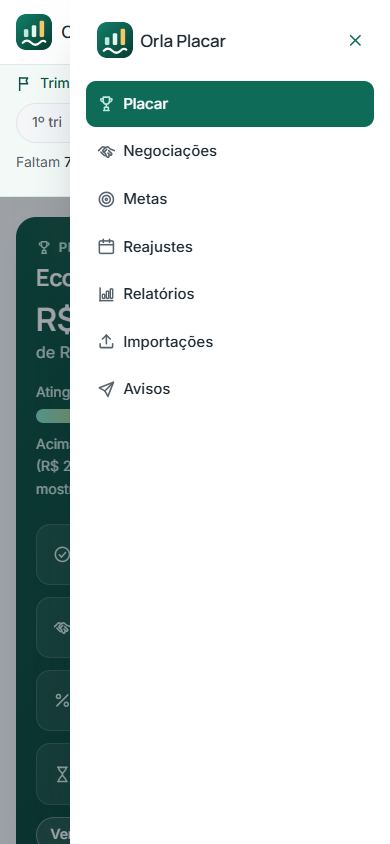
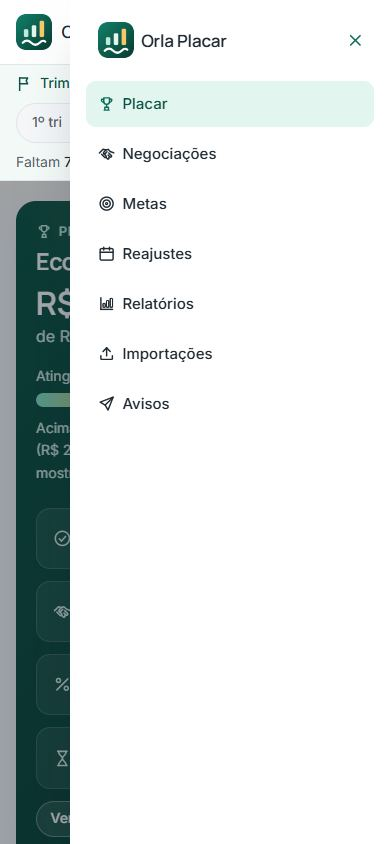
Refina o menu do Placar e cria o menu de conta no DS
- Nome, perfil, matrícula e "Sair" saem do topo e vão para um menu de
  conta (avatar e primeiro nome), nos três produtos. Abre e fecha pelo
  teclado, fecha com Esc e devolve o foco.
- Topo do Placar alinhado à mesma largura do conteúdo e da faixa do
  trimestre, sem quebras de linha. Item ativo com fundo suave no lugar da
  pílula verde sólida. Abaixo de 1180 px o menu vira gaveta.
- Nome da marca nunca quebra de linha.

diff --git a/controle-aditamento/css/app.css b/controle-aditamento/css/app.css
@@ -30,41 +30,45 @@
   position: sticky;
   top: 0;
   z-index: 40;
-  background: rgb(255 255 255 / .86);
+  background: rgb(255 255 255 / .9);
   border-bottom: 1px solid var(--border);
   -webkit-backdrop-filter: blur(14px);
   backdrop-filter: blur(14px);
 }
+/* Topo, faixa do trimestre e conteúdo alinhados na mesma largura. */
 .app-header__bar {
   display: flex;
   align-items: center;
-  gap: 1rem;
+  gap: clamp(1rem, 2vw, 2rem);
   max-width: var(--content-max);
   min-height: var(--header-h);
   margin-inline: auto;
   padding: .5rem clamp(1rem, 3vw, 2rem);
 }
-.app-header__end { display: flex; align-items: center; gap: .5rem; margin-left: auto; }
+.app-header__bar > .brand { flex: none; }
+.app-header__end { display: flex; align-items: center; gap: .35rem; margin-left: auto; flex: none; }
 .btn.app-header__menu { display: none; }
 
-.app-nav ul { display: flex; flex-wrap: nowrap; gap: .1rem; margin: 0; padding: 0; list-style: none; }
+.app-nav { min-width: 0; }
+.app-nav ul { display: flex; flex-wrap: nowrap; gap: .15rem; margin: 0; padding: 0; list-style: none; }
 .app-nav a {
   display: inline-flex;
   align-items: center;
   gap: .45rem;
   min-height: 40px;
-  padding: .4rem .7rem;
-  border-radius: 999px;
+  padding: .4rem .75rem;
+  border-radius: var(--radius-sm);
   white-space: nowrap;
-  color: var(--text);
+  color: var(--text-muted);
   font-size: var(--text-md);
   font-weight: 500;
   text-decoration: none;
+  transition: background-color .15s, color .15s;
 }
-.app-nav a .icon { color: var(--text-muted); }
-.app-nav a:hover { background: var(--surface-3); }
-.app-nav a[aria-current="page"] { background: var(--accent-700); color: #fff; }
-.app-nav a[aria-current="page"] .icon { color: var(--accent-200); }
+.app-nav a .icon { width: 1.15em; height: 1.15em; }
+.app-nav a:hover { background: var(--surface-3); color: var(--text); }
+.app-nav a[aria-current="page"] { background: var(--accent-100); color: var(--accent-800); }
+.app-nav a[aria-current="page"] .icon { color: var(--accent-700); }
 .app-nav__head { display: none; }
 
 /* Faixa da temporada: o trimestre em foco */
@@ -85,7 +89,7 @@
 .season__label { display: inline-flex; align-items: center; gap: .4rem; font-weight: 500; color: var(--accent-800); }
 .season .segmented label { min-height: 32px; padding: .2rem .75rem; }
 .season .select { width: auto; min-height: 36px; padding-block: .25rem; font-size: var(--text-sm); }
-.season__clock { margin-left: auto; color: var(--text-muted); }
+.season__clock { margin: 0 0 0 auto; color: var(--text-muted); }
 .season__clock strong { color: var(--text); font-weight: 500; }
 
 .content {
@@ -94,10 +98,8 @@
   padding: clamp(1.25rem, 3vw, 2rem) clamp(1rem, 3vw, 2rem) 3rem;
 }
 
-@media (max-width: 1500px) {
-  .app-header .user-box__name { display: none; }
-}
-@media (max-width: 1100px) {
+/* Abaixo de 1180 px os sete itens não cabem com folga: o menu vira gaveta. */
+@media (max-width: 1180px) {
   /* backdrop-filter criaria um bloco de contenção e prenderia a gaveta dentro do cabeçalho */
   .app-header { background: var(--surface); -webkit-backdrop-filter: none; backdrop-filter: none; }
   .app-header:has(.app-nav.is-open) { z-index: 70; }
@@ -117,8 +119,10 @@
   }
   .app-nav.is-open { transform: none; visibility: visible; transition: transform .25s var(--ease); }
   .app-nav__head { display: flex; align-items: center; justify-content: space-between; margin-bottom: 1rem; }
-  .app-nav ul { flex-direction: column; }
-  .app-nav a { width: 100%; min-height: 46px; border-radius: var(--radius-sm); }
+  .app-nav ul { flex-direction: column; gap: .25rem; }
+  .app-nav a { width: 100%; min-height: 46px; color: var(--text); }
+}
+@media (max-width: 720px) {
   .season__clock { margin-left: 0; width: 100%; }
 }
 @media (max-width: 560px) {

diff --git a/ds/ds.css b/ds/ds.css
@@ -210,7 +210,7 @@ a:hover { text-decoration-thickness: 2px; }
   text-decoration: none;
 }
 .brand__mark { width: 36px; height: 36px; border-radius: 10px; }
-.brand__text { display: grid; line-height: 1.15; }
+.brand__text { display: grid; line-height: 1.15; white-space: nowrap; }
 .brand__name { font-family: var(--font-display); font-weight: 600; font-size: 1.0625rem; letter-spacing: -.01em; }
 .brand__sub { font-size: .8125rem; color: var(--text-muted); }
 
@@ -1060,17 +1060,32 @@ th[aria-sort="ascending"] .sort-btn, th[aria-sort="descending"] .sort-btn { colo
 .app-link small { color: var(--text-muted); font-size: .8125rem; }
 .app-link[aria-current="page"] { background: var(--accent-50); box-shadow: inset 0 0 0 1px var(--accent-200); }
 
-/* Pessoa logada */
-.user-box { display: flex; align-items: center; gap: .65rem; }
-.user-box__name { display: grid; line-height: 1.2; font-size: var(--text-sm); }
-.user-box__name strong { font-weight: 500; }
-.user-box__name span { color: var(--text-muted); font-size: .8125rem; }
-@media (max-width: 1023.98px) { .user-box__name { display: none; } }
-@media (max-width: 560px) {
-  .user-box .avatar { display: none; }
-  .user-box__sair { width: 36px; padding: 0; }
-  .user-box__sair-txt { position: absolute; width: 1px; height: 1px; overflow: hidden; clip: rect(0 0 0 0); white-space: nowrap; }
+/* Conta da pessoa logada: avatar e primeiro nome; nome completo, perfil e "Sair" no menu */
+.account__btn {
+  display: inline-flex;
+  align-items: center;
+  gap: .5rem;
+  min-height: 44px;
+  padding: .25rem .6rem .25rem .3rem;
+  border: 1px solid transparent;
+  border-radius: 999px;
+  background: transparent;
+  color: var(--text);
+  font: inherit;
+  font-size: var(--text-md);
+  font-weight: 500;
+  cursor: pointer;
+  white-space: nowrap;
 }
+.account__btn:hover, .account__btn[aria-expanded="true"] { background: var(--surface-3); }
+.account__btn .icon { width: 1em; height: 1em; color: var(--text-muted); transition: transform .15s; }
+.account__btn[aria-expanded="true"] .icon { transform: rotate(180deg); }
+.account__panel { min-width: 280px; padding: 1rem; }
+.account__who { display: grid; grid-template-columns: auto minmax(0, 1fr); gap: .25rem .75rem; align-items: center; margin-bottom: .9rem; padding-bottom: .9rem; border-bottom: 1px solid var(--border); }
+.account__who .avatar { grid-row: span 3; width: 44px; height: 44px; font-size: .9375rem; }
+.account__who strong { font-weight: 600; line-height: 1.25; }
+.account__who span { font-size: .8125rem; color: var(--text-muted); line-height: 1.3; }
+@media (max-width: 640px) { .account__name { display: none; } .account__btn { padding-right: .4rem; } }
 
 /* ---------------------------------------------------------- Login escuro */
 .login {

diff --git a/ds/ds.js b/ds/ds.js
@@ -1188,12 +1188,24 @@
     return raiz;
   }
 
-  // Avatar, nome, perfil e botão de sair.
-  function userBox(u, classe) {
-    return h('div', { class: 'user-box ' + (classe || '') },
-      h('span', { class: 'avatar', 'aria-hidden': 'true', text: iniciais(u.nome) }),
-      h('span', { class: 'user-box__name' }, h('strong', { text: u.nome }), h('span', { text: perfilNoApp(u) })),
-      h('button', { type: 'button', class: 'btn btn--sm user-box__sair', onClick: sair }, icon('logout'), h('span', { class: 'user-box__sair-txt', text: 'Sair' })));
+  // Conta: botão com avatar e primeiro nome que abre nome completo, perfil e "Sair".
+  function userBox(u) {
+    const painelId = uid('conta');
+    const primeiro = String(u.nome).split(' ')[0];
+    const botao = h('button', { type: 'button', class: 'account__btn', 'aria-controls': painelId },
+      h('span', { class: 'avatar avatar--sm', 'aria-hidden': 'true', text: iniciais(u.nome) }),
+      h('span', { class: 'account__name', text: primeiro }),
+      h('span', { class: 'visually-hidden', text: ', conta e sair' }),
+      icon('chevron-down'));
+    const painel = h('div', { class: 'menu__panel account__panel', id: painelId },
+      h('div', { class: 'account__who' },
+        h('span', { class: 'avatar', 'aria-hidden': 'true', text: iniciais(u.nome) }),
+        h('strong', { text: u.nome }),
+        h('span', { text: perfilNoApp(u) }),
+        h('span', { text: 'Matrícula ' + u.matricula })),
+      h('button', { type: 'button', class: 'btn btn--block', onClick: sair }, icon('logout'), 'Sair'));
+    disclosure(botao, painel);
+    return h('div', { class: 'menu account' }, botao, painel);
   }
 
   function brand(classe) {
